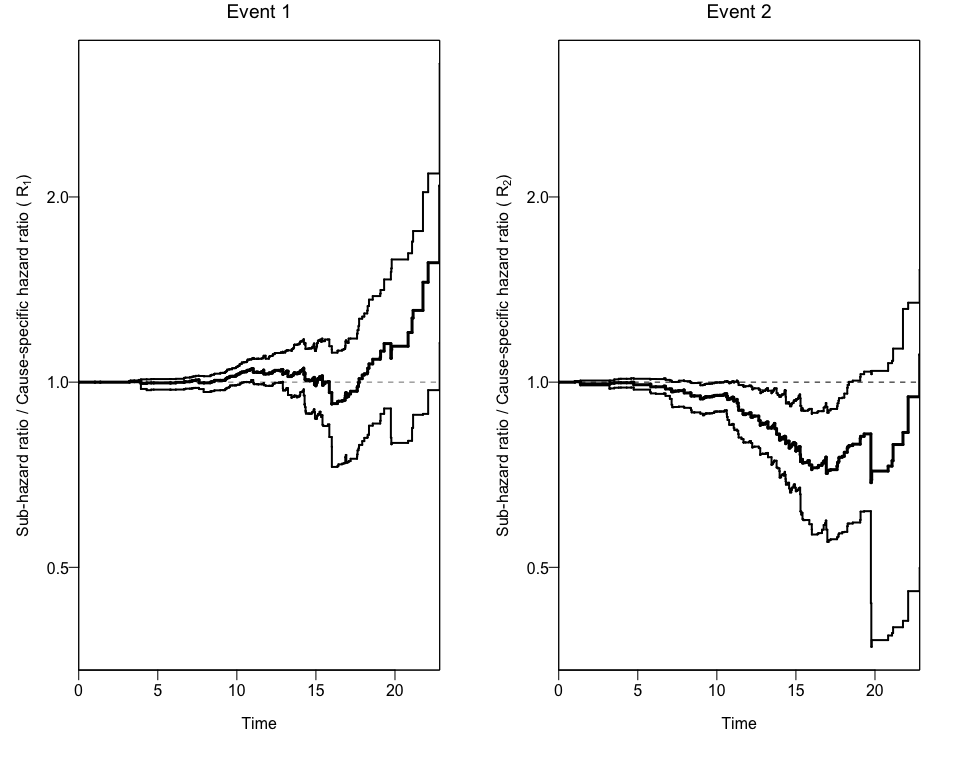
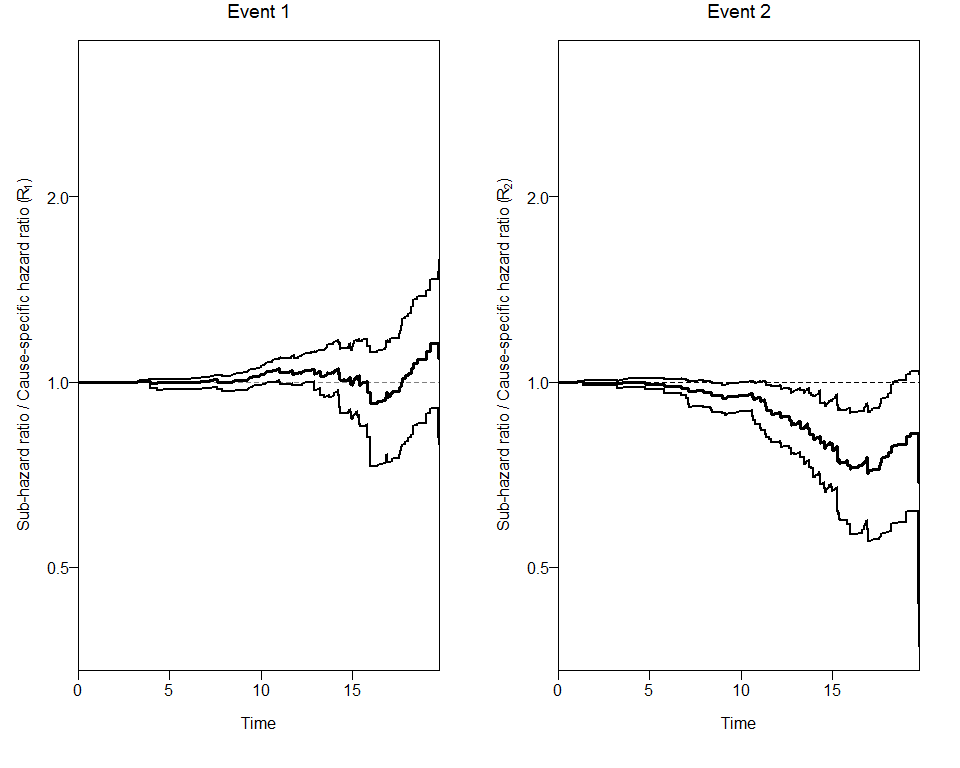
commit 9

diff --git a/README.md b/README.md
@@ -9,7 +9,7 @@
 
 The `hrcomprisk` package aims to estimate Nonparametric
 Cumulative-Incidence Based Estimation of the Ratios of Sub-Hazard Ratios
-to Cause-Specific Hazard Ratios
+to Cause-Specific Hazard Ratios.
 
 ## Installation
 
@@ -118,7 +118,7 @@ the previous plot using again the `plotCIF`
 function.
 
 ``` r
-plotCIF(cifobj=mydat.CIF, maxtime= 20, ci=ciCIF, eoi=1)
+plotCIF(cifobj=mydat.CIF, maxtime= 20, ci=ciCIF)
 ```
 
 <img src="man/figures/README-plot_ci-1.png" width="100%" /><img src="man/figures/README-plot_ci-2.png" width="100%" />
@@ -130,7 +130,7 @@ analyses in one
 step.
 
 ``` r
-npcrest(df=data, exit=exit, event=event, exposure=b1nb0,  rep=100, eoi=1)
+npcrest(df=data, exit=exit, event=event, exposure=b1nb0,rep=100, maxtime = 20)
 #> $names
 #> [1] "event"       "exposure"    "time"        "CIoinc_comp" "CIxinc_comp"
 #> [6] "CIoinc_1"    "CIxinc_1"    "CIoinc_2"    "CIxinc_2"   
@@ -175,8 +175,8 @@ npcrest(df=data, exit=exit, event=event, exposure=b1nb0,  rep=100, eoi=1)
 
 ## References
 
-1.  Ng D, Antiporta DA, Matheson MM, Munoz A. Nonparametric assessment
-    of differences between competing risks hazard ratios: application to
+1.  Ng D, Antiporta DA, Matheson M, Munoz A. Nonparametric assessment of
+    differences between competing risks hazard ratios: application to
     racial differences in pediatric chronic kidney disease progression.
     2019 (in review)
 2.  Muñoz A, Abraham AG, Matheson M, Wada N. In: Risk Assessment and
